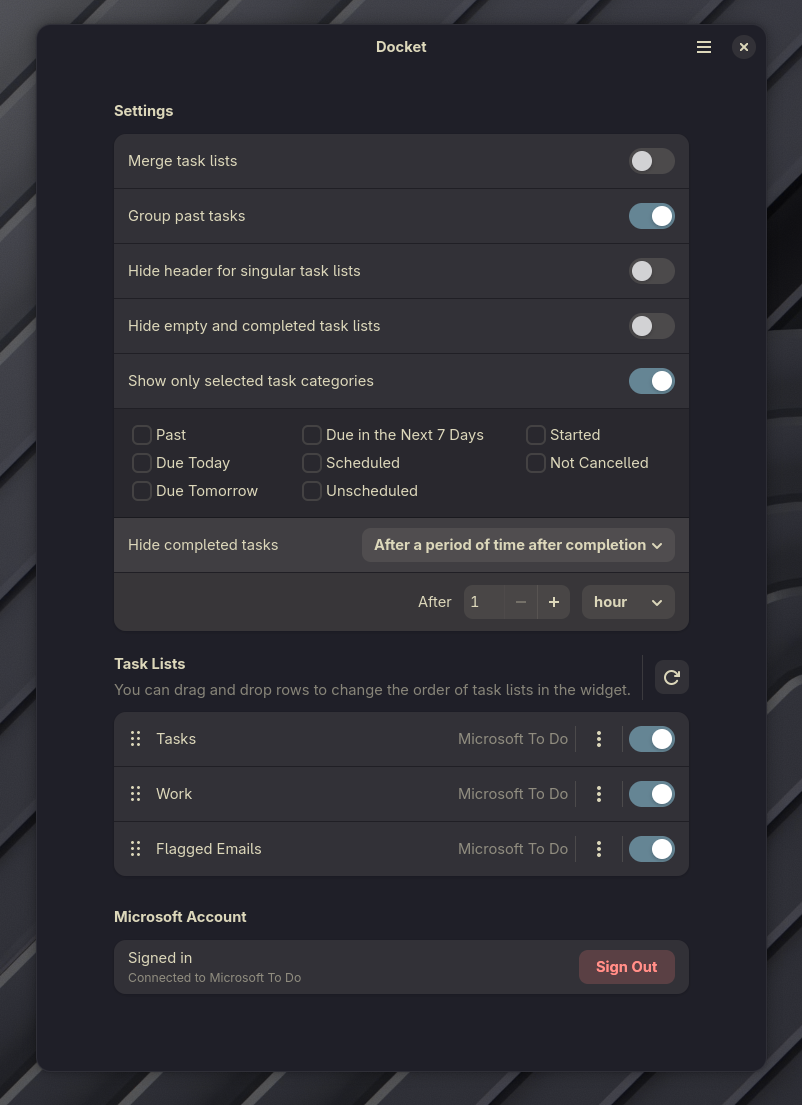
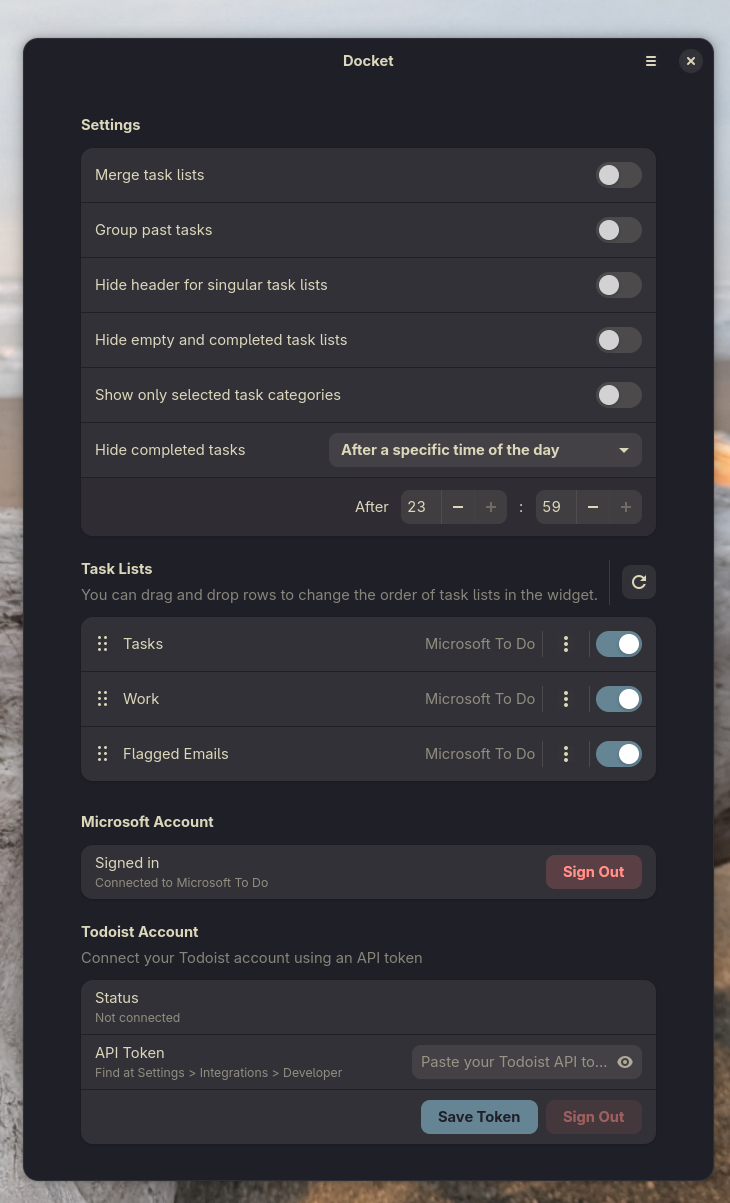
Update README and settings screenshot

diff --git a/README.md b/README.md
@@ -1,59 +1,23 @@
 # Docket
 
-A GNOME Shell extension that displays your tasks from **Microsoft To Do** and **Todoist** next to the calendar widget in the date menu. Both backends can run simultaneously — tasks from all authenticated services appear in a unified view.
+A GNOME Shell extension that puts your Microsoft To Do and Todoist tasks next to the calendar in the date menu using MS Graph API and Todoist API.
 
 ![Docket screenshot](screenshot.png)
 
 ## Features
 
-### Multi-Backend Support
-- **Microsoft To Do** — OAuth2 device code flow via Microsoft Graph API
-- **Todoist** — API token authentication via Todoist REST/Sync API
-- Both backends active simultaneously — no need to choose one or the other
-- Tasks from all services merged into a single, unified task list view
-
-### Task Management
-- **Quick-add tasks** with an inline text entry ("Add a task...")
-- **Inline calendar date picker** — set due dates on new tasks before adding them (Today / Clear shortcuts included)
-- **Mark tasks as completed/uncompleted** via checkbox
-- **Delete tasks** with a per-task delete button (trash icon)
-- **Edit task titles** inline with a per-task edit button (pencil icon)
-- **Checklist/subtask support** — expand tasks to view and toggle checklist items (Graph) or subtasks (Todoist)
-
-### Task Organization
-- **Switch between task lists** using header navigation arrows or the dropdown menu
-- **Merge all task lists** into a single combined view
-- **Filter tasks by category** — Past, Today, Tomorrow, Next 7 Days, Scheduled, Unscheduled, Not Cancelled, Started
-- **Sort tasks** by name, due date, or priority
-- **Group overdue tasks** under a unified "Past" header
-- **Hide completed tasks** — four modes:
-  - Never
-  - Immediately
-  - After a period of time (configurable seconds/minutes/hours/days)
-  - After a specific time of day (configurable hour:minute)
-- **Hide empty/completed task lists** from the list switcher
-- **Hide header** when only one task list exists
-- **Reorder task lists** via drag-and-drop in Settings
-- **Toggle task list visibility** — disable specific lists from appearing
-
-### Offline Support
-- **Disk-cached tasks** — tasks persist to `~/.cache/docket/task-cache.json` so they're available immediately on startup and during network outages
-- **Offline banner** — amber "No internet" notification with relative timestamp of last successful sync
-- **Automatic recovery** — resumes syncing when connectivity returns
-
-### Sync Engine
-- **Delta/incremental sync** — only fetches changes since last sync (Graph delta queries, Todoist sync tokens)
-- **Background polling** — syncs every 30 seconds while the panel is open, every 5 minutes (configurable) when closed
-- **Full sync on startup** — loads cache instantly, then fetches latest from network
-- **Multi-backend CRUD routing** — each task list is tagged with its backend, so creates/updates/deletes route to the correct API automatically
-
-### UI
-- Lives in the GNOME Shell date menu, next to the calendar widget
-- Matches the height of the calendar widget automatically
-- Scrollable task list with lazy loading
-- Keyboard accessible (focus navigation, enter to activate)
-- RTL layout support
-- Compatible with custom GNOME Shell themes
+- **Microsoft To Do** and **Todoist** support
+- Quick-add tasks with an inline calendar date picker for due dates
+- Complete, delete, and edit tasks inline
+- Checklist items (Graph) and subtasks (Todoist)
+- Switch between task lists, or merge them into one view
+- Filter by category (Past, Today, Tomorrow, Next 7 Days, Scheduled, etc.)
+- Sort by name, due date, or priority
+- Hide completed tasks (immediately, after a time period, or after a specific time of day)
+- Reorder and toggle task list visibility in Settings
+- Offline task cache — tasks persist to disk and load instantly on startup
+- Delta sync — only fetches changes since last sync
+- Background polling (30s while open, configurable interval while closed)
 
 ## Installation
 
@@ -64,8 +28,6 @@ A GNOME Shell extension that displays your tasks from **Microsoft To Do** and **
 - libsecret (GNOME Keyring)
 
 ### Build from Source
-
-Install build dependencies for your distro:
 
 **Ubuntu 24.04+**
 ```bash
@@ -103,61 +65,19 @@ meson setup builddir --prefix="$HOME/.local" --wipe && meson install -C builddir
 
 ### Microsoft To Do
 
-1. Open the extension preferences (GNOME Extensions app → Docket → Settings)
+1. Open extension preferences (GNOME Extensions → Docket → Settings)
 2. Click **Sign In** under Microsoft Account
-3. Complete the device code flow — the code is copied to your clipboard automatically
-4. Your Microsoft To Do task lists will appear
+3. Complete the device code flow (code is copied to clipboard automatically)
 
 ### Todoist
 
-1. Open the extension preferences
-2. Under **Todoist Account**, paste your API token
-   - Find your token at: Todoist → Settings → Integrations → Developer
-3. Click **Save Token** — the token is validated against the Todoist API before saving
-4. Your Todoist projects will appear as task lists
+1. Open extension preferences
+2. Under **Todoist Account**, paste your API token (Todoist → Settings → Integrations → Developer)
+3. Click **Save Token**
 
-Both accounts can be connected at the same time. Sign out individually from either service in Settings.
+Sign out from either service individually in Settings.
 
 ![Docket settings](screenshot-settings.png)
-
-## Settings
-
-| Setting | Description |
-|---|---|
-| Merge task lists | Combine all lists into a single view |
-| Group past tasks | Group overdue tasks under a "Past" header |
-| Hide header for singular task lists | Hide the list switcher when only one list exists |
-| Hide empty completed task lists | Don't show lists that are empty or fully completed |
-| Hide completed tasks | Never / Immediately / After time period / After time of day |
-| Show only selected categories | Enable category-based task filtering |
-| Task list order | Drag to reorder lists in Settings |
-| Disabled task lists | Toggle visibility of individual lists |
-| Sync interval | Background polling interval in minutes (default: 5) |
-
-## Architecture
-
-```
-extension.js          ← UI: panel widget, task rendering, quick-add, calendar picker
-  ↓
-sync-engine.js        ← Cache, delta sync, polling, offline detection, CRUD routing
-  ↓
-graph-backend.js      ← Microsoft Graph adapter (BackendAdapter interface)
-todoist-backend.js    ← Todoist adapter (BackendAdapter interface)
-  ↓
-graph-api.js          ← Graph To Do REST API + delta queries
-todoist-api.js        ← Todoist REST API v1 + Sync API
-  ↓
-graph-client.js       ← HTTP client for Graph (Soup3, retry, auth headers)
-todoist-client.js     ← HTTP client for Todoist (Soup3, retry, rate limiting)
-  ↓
-auth.js               ← Microsoft OAuth2 device code flow + libsecret storage
-todoist-auth.js       ← Todoist API token + libsecret storage
-  ↓
-task-model.js         ← Unified data model, Graph/Todoist converters, serialization
-backend.js            ← Abstract BackendAdapter interface
-utils.js              ← Constants, debounce, sorting helpers
-prefs.js              ← Settings UI (GTK4/Adwaita)
-```
 
 ## Credits
 
